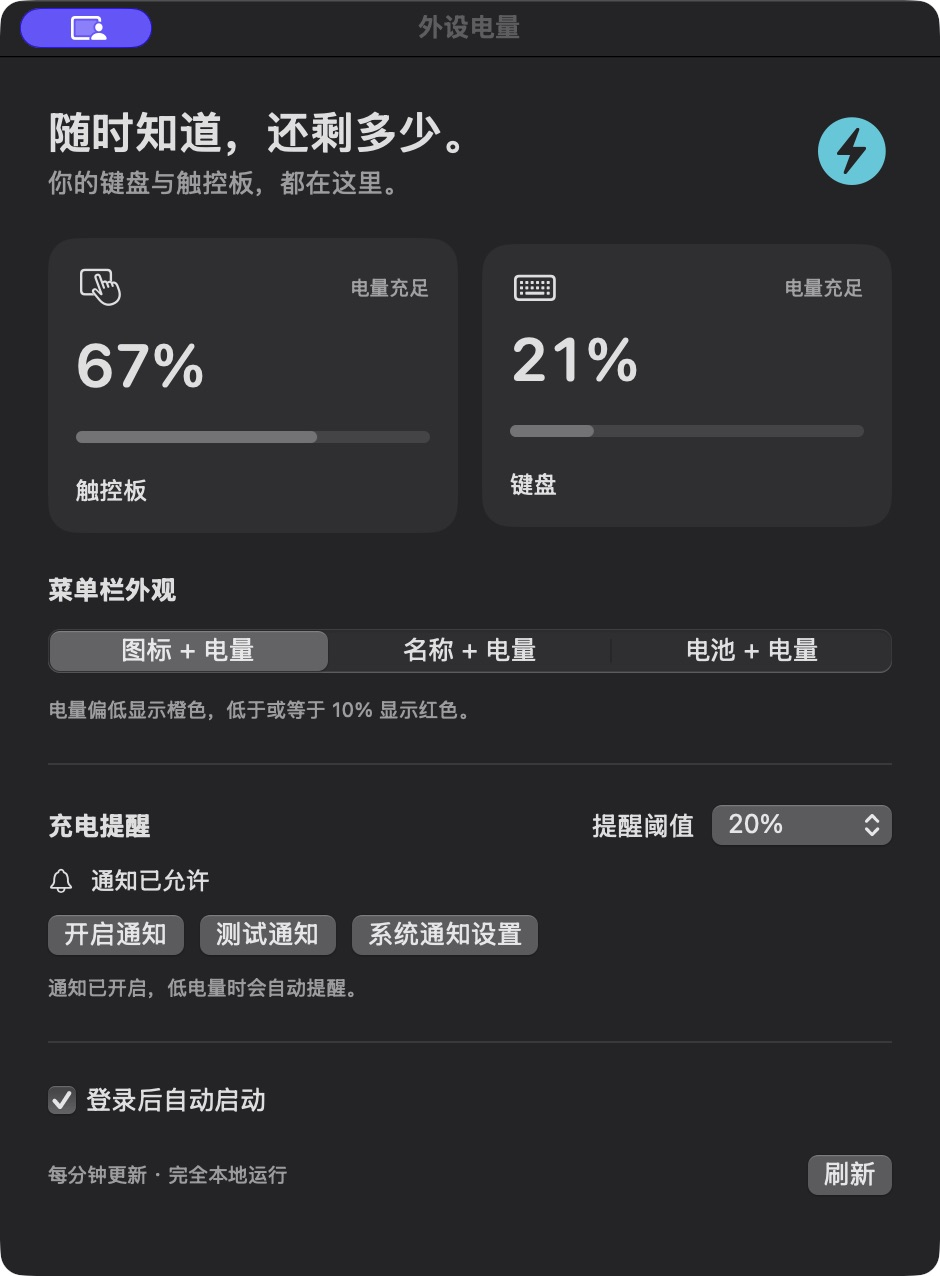
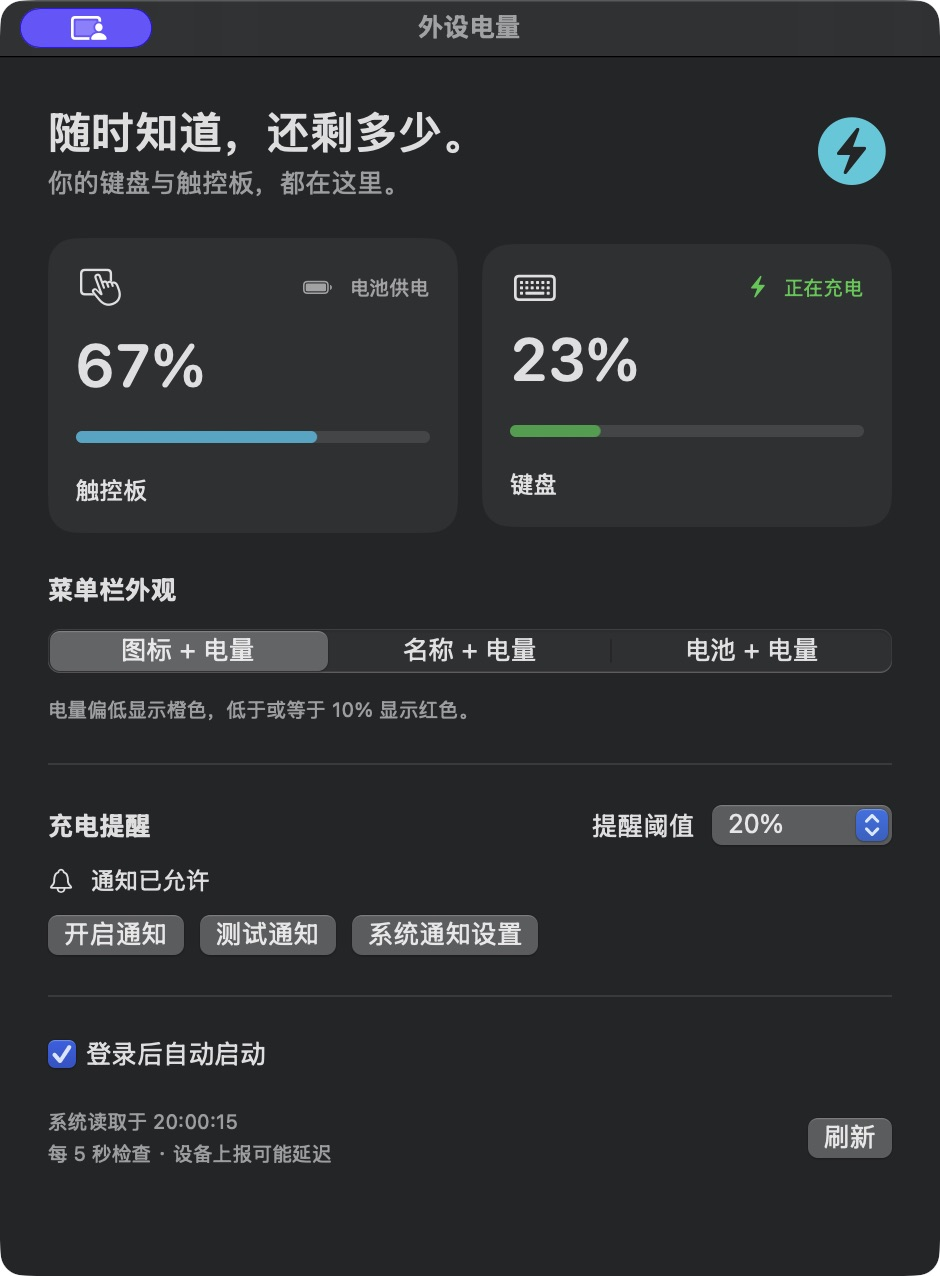
v1.2：增加真实充电状态和 5 秒刷新，通过实机插拔验证

diff --git a/peripheral-battery/Sources/PeripheralBattery.swift b/peripheral-battery/Sources/PeripheralBattery.swift
@@ -1,12 +1,22 @@
 import Cocoa
 import SwiftUI
 import IOKit
+import IOKit.ps
+import Darwin
 import UserNotifications
 import ServiceManagement
 
 struct Device {
     let name: String
     let percent: Int
+    var charging: Bool? = nil
+    var externalPower = false
+    var source = "IORegistry"
+    var powerLabel: String {
+        if charging == true { return "正在充电" }
+        if charging == false { return externalPower ? (percent == 100 ? "已充满" : "已接电，未充电") : "电池供电" }
+        return "充电状态未知"
+    }
     var symbol: String {
         switch label { case "键盘": return "keyboard"; case "触控板": return "rectangle.and.hand.point.up.left"; case "鼠标": return "computermouse"; default: return "battery.100percent" }
     }
@@ -18,7 +28,7 @@ struct Device {
         return name
     }
 }
-func readDevices() -> [Device] {
+func readRegistryDevices() -> [Device] {
     var iterator: io_iterator_t = 0
     guard IOServiceGetMatchingServices(kIOMainPortDefault, IOServiceMatching("AppleDeviceManagementHIDEventService"), &iterator) == KERN_SUCCESS else { return [] }
     defer { IOObjectRelease(iterator) }
@@ -33,6 +43,67 @@ func readDevices() -> [Device] {
         result.append(Device(name: name, percent: percent))
     }
     return result.sorted { $0.label < $1.label }
+}
+
+// Apple's accessory-source API is publicly unsupported. Resolve it dynamically;
+// if unavailable, retain the battery reading and explicitly mark charging unknown.
+enum AccessoryPower {
+    typealias CopySources = @convention(c) (Int32) -> Unmanaged<CFTypeRef>?
+    static let handle = dlopen("/System/Library/Frameworks/IOKit.framework/IOKit", RTLD_LAZY)
+    static let copySources: CopySources? = {
+        guard let handle = handle, let symbol = dlsym(handle, "IOPSCopyPowerSourcesByType") else { return nil }
+        return unsafeBitCast(symbol, to: CopySources.self)
+    }()
+}
+func decodeAccessory(_ data: [String: Any]) -> Device? {
+    guard ["Keyboard", "Trackpad", "Mouse"].contains(data["Accessory Category"] as? String ?? ""),
+          (data["Is Present"] as? NSNumber)?.boolValue == true,
+          let name = data["Name"] as? String,
+          let current = data["Current Capacity"] as? Int,
+          let maximum = data["Max Capacity"] as? Int,
+          maximum > 0, current >= 0, current <= maximum else { return nil }
+    let percent = Int((Double(current) / Double(maximum) * 100).rounded())
+    let charging = (data["Is Charging"] as? NSNumber)?.boolValue
+    return Device(name: name, percent: percent, charging: charging,
+                  externalPower: data["Power Source State"] as? String == "AC Power",
+                  source: "macOS 外设电源服务")
+}
+func readDevices() -> [Device] {
+    if let copy = AccessoryPower.copySources,
+       let snapshot = copy(4)?.takeRetainedValue(),
+       let sources = IOPSCopyPowerSourcesList(snapshot)?.takeRetainedValue() as? [CFTypeRef] {
+        let devices = sources.compactMap { source -> Device? in
+            guard let data = IOPSGetPowerSourceDescription(snapshot, source)?.takeUnretainedValue() as? [String: Any] else { return nil }
+            return decodeAccessory(data)
+        }
+        // A valid source snapshot is authoritative, including an empty device list.
+        return devices.sorted { $0.label < $1.label }
+    }
+    return readRegistryDevices()
+}
+func runSelfTests() {
+    var data: [String: Any] = ["Accessory Category": "Keyboard", "Is Present": true, "Name": "Test Keyboard", "Current Capacity": 23, "Max Capacity": 100, "Is Charging": false, "Power Source State": "Battery Power"]
+    precondition(decodeAccessory(data)?.powerLabel == "电池供电")
+    data["Current Capacity"] = 24
+    precondition(decodeAccessory(data)?.charging == false, "Increasing capacity must not imply charging")
+    data["Is Charging"] = true
+    precondition(decodeAccessory(data)?.powerLabel == "正在充电")
+    data["Is Charging"] = false
+    data["Power Source State"] = "AC Power"
+    precondition(decodeAccessory(data)?.powerLabel == "已接电，未充电")
+    data["Current Capacity"] = 100
+    precondition(decodeAccessory(data)?.powerLabel == "已充满")
+    data.removeValue(forKey: "Is Charging")
+    precondition(decodeAccessory(data)?.charging == nil)
+    data["Max Capacity"] = 0
+    precondition(decodeAccessory(data) == nil)
+    data["Max Capacity"] = 100
+    data["Is Present"] = false
+    precondition(decodeAccessory(data) == nil)
+    data["Is Present"] = true
+    data["Accessory Category"] = "Headset"
+    precondition(decodeAccessory(data) == nil)
+    print("PASS: power-state decoding, rising percentage, missing state, invalid capacity, absent device, category filtering")
 }
 
 class AppDelegate: NSObject, NSApplicationDelegate, UNUserNotificationCenterDelegate {
@@ -63,6 +134,7 @@ class AppDelegate: NSObject, NSApplicationDelegate, UNUserNotificationCenterDele
     }
     func syncModel() {
         model.devices = devices
+        model.lastRead = lastUpdate
         model.notificationState = notificationState
         model.notificationDetail = notificationDetail
         model.threshold = threshold
@@ -71,6 +143,7 @@ class AppDelegate: NSObject, NSApplicationDelegate, UNUserNotificationCenterDele
         model.loginPending = SMAppService.mainApp.status == .requiresApproval
     }
     @objc func showSettings() {
+        refresh()
         updateNotificationState()
         if settingsWindow == nil {
             let window = NSWindow(contentRect: NSRect(x: 0, y: 0, width: 470, height: 610), styleMask: [.titled, .closable, .miniaturizable], backing: .buffered, defer: false)
@@ -89,7 +162,7 @@ class AppDelegate: NSObject, NSApplicationDelegate, UNUserNotificationCenterDele
         let font = NSFont.monospacedDigitSystemFont(ofSize: 12, weight: .medium)
         for (index, device) in devices.enumerated() {
             if index > 0 { text.append(NSAttributedString(string: "   ", attributes: [.font: font])) }
-            let color: NSColor = device.percent <= 10 ? .systemRed : device.percent <= threshold ? .systemOrange : .labelColor
+            let color: NSColor = device.charging == true ? .systemGreen : device.percent <= 10 ? .systemRed : device.percent <= threshold ? .systemOrange : .labelColor
             if style == 1 {
                 text.append(NSAttributedString(string: displayName(device) + " ", attributes: [.font: font, .foregroundColor: color]))
             } else {
@@ -102,11 +175,11 @@ class AppDelegate: NSObject, NSApplicationDelegate, UNUserNotificationCenterDele
                     text.append(NSAttributedString(string: " "))
                 }
             }
-            text.append(NSAttributedString(string: "\(device.percent)%", attributes: [.font: font, .foregroundColor: color]))
+            text.append(NSAttributedString(string: "\(device.charging == true ? "⚡ " : "")\(device.percent)%", attributes: [.font: font, .foregroundColor: color]))
         }
         if devices.isEmpty { text.append(NSAttributedString(string: "外设未连接")) }
         item.button?.attributedTitle = text
-        item.button?.toolTip = devices.map { "\(displayName($0))：\($0.percent)%" }.joined(separator: "\n") + "\n每分钟读取系统上报的电量"
+        item.button?.toolTip = devices.map { "\(displayName($0))：\($0.percent)% · \($0.powerLabel)" }.joined(separator: "\n") + "\n每 5 秒读取系统数据，设备上报可能延迟"
     }
     var timer: Timer?
     var devices: [Device] = []
@@ -118,7 +191,10 @@ class AppDelegate: NSObject, NSApplicationDelegate, UNUserNotificationCenterDele
         item = NSStatusBar.system.statusItem(withLength: NSStatusItem.variableLength)
         UNUserNotificationCenter.current().delegate = self
         refresh()
-        timer = Timer.scheduledTimer(withTimeInterval: 60, repeats: true) { [weak self] _ in self?.refresh() }
+        let pollingTimer = Timer(timeInterval: 5, repeats: true) { [weak self] _ in self?.refresh() }
+        pollingTimer.tolerance = 0.5
+        RunLoop.main.add(pollingTimer, forMode: .common)
+        timer = pollingTimer
         NSWorkspace.shared.notificationCenter.addObserver(self, selector: #selector(refresh), name: NSWorkspace.didWakeNotification, object: nil)
         updateNotificationState()
         showSettings()
@@ -133,7 +209,7 @@ class AppDelegate: NSObject, NSApplicationDelegate, UNUserNotificationCenterDele
         for device in devices {
             let key = "lastAlert.\(device.name)"
             if device.percent > threshold + 5 { defaults.removeObject(forKey: key); continue }
-            guard device.percent <= threshold else { continue }
+            guard device.percent <= threshold, device.charging != true, !device.externalPower else { continue }
             let last = defaults.object(forKey: key) as? Date ?? .distantPast
             guard Date().timeIntervalSince(last) >= 6 * 3600 else { continue }
             UNUserNotificationCenter.current().getNotificationSettings { settings in
@@ -164,9 +240,9 @@ class AppDelegate: NSObject, NSApplicationDelegate, UNUserNotificationCenterDele
         _ = add(menu, "电量与个性化设置…", #selector(showSettings))
         menu.addItem(.separator())
         if devices.isEmpty { _ = add(menu, "未检测到已连接的苹果外设") }
-        for d in devices { _ = add(menu, "\(d.name)：\(d.percent)%") }
+        for d in devices { _ = add(menu, "\(d.name)：\(d.percent)% · \(d.powerLabel)") }
         let formatter = DateFormatter(); formatter.dateFormat = "HH:mm:ss"
-        _ = add(menu, "更新于 \(formatter.string(from: lastUpdate)) · 每分钟检查")
+        _ = add(menu, "读取于 \(formatter.string(from: lastUpdate)) · 每 5 秒检查")
         menu.addItem(.separator())
         _ = add(menu, "立即刷新", #selector(refresh))
         let thresholds = NSMenu()
@@ -239,6 +315,7 @@ class AppDelegate: NSObject, NSApplicationDelegate, UNUserNotificationCenterDele
 }
 class BatteryModel: ObservableObject {
     @Published var devices: [Device] = []
+    @Published var lastRead = Date()
     @Published var notificationState = "正在检查…"
     @Published var notificationDetail = ""
     @Published var threshold = 30
@@ -266,10 +343,11 @@ struct BatterySettings: View {
                             HStack {
                                 Image(systemName: device.symbol).font(.title2)
                                 Spacer()
-                                Text(device.percent <= model.threshold ? "该充电了" : "电量充足").font(.caption).foregroundStyle(.secondary)
+                                Label(device.powerLabel, systemImage: device.charging == true ? "bolt.fill" : "battery.100percent")
+                                    .font(.caption).foregroundStyle(device.charging == true ? .green : .secondary)
                             }
                             Text("\(device.percent)%").font(.system(size: 30, weight: .semibold, design: .rounded)).monospacedDigit()
-                            ProgressView(value: Double(device.percent), total: 100).tint(device.percent <= model.threshold ? .orange : .teal)
+                            ProgressView(value: Double(device.percent), total: 100).tint(device.charging == true ? .green : device.percent <= model.threshold ? .orange : .teal)
                             TextField(device.label, text: Binding(get: { delegate.displayName(device) }, set: { delegate.setName(device, $0) }))
                                 .textFieldStyle(.plain).font(.callout)
                                 .help("点击修改名称；中文样式会使用这个名字")
@@ -309,7 +387,10 @@ struct BatterySettings: View {
                 Toggle("登录后自动启动", isOn: Binding(get: { model.loginEnabled }, set: { _ in delegate.toggleLogin() }))
                 if model.loginPending { Text("请在系统设置 → 通用 → 登录项中允许启动。").font(.caption).foregroundStyle(.orange) }
                 HStack {
-                    Text("每分钟更新 · 完全本地运行").font(.caption).foregroundStyle(.secondary)
+                    VStack(alignment: .leading, spacing: 3) {
+                        Text("系统读取于 " + model.lastRead.formatted(date: .omitted, time: .standard))
+                        Text("每 5 秒检查 · 设备上报可能延迟")
+                    }.font(.caption).foregroundStyle(.secondary)
                     Spacer()
                     Button("刷新") { delegate.refresh(); delegate.updateNotificationState() }
                 }
@@ -317,8 +398,10 @@ struct BatterySettings: View {
         }.frame(width: 470, height: 610)
     }
 }
-if CommandLine.arguments.contains("--check") {
-    for d in readDevices() { print("\(d.label) | \(d.name) | \(d.percent)%") }
+if CommandLine.arguments.contains("--self-test") {
+    runSelfTests()
+} else if CommandLine.arguments.contains("--check") {
+    for d in readDevices() { print("\(d.label) | \(d.percent)% | \(d.powerLabel) | \(d.source)") }
 } else {
     let app = NSApplication.shared
     let delegate = AppDelegate()

diff --git a/peripheral-battery/README.md b/peripheral-battery/README.md
@@ -7,7 +7,7 @@
 ## 界面预览
 
 <p align="center">
-  <img src="docs/images/app-window.png" alt="外设电量 v1.1 实际运行截图：设备电量卡片、外观切换与通知设置" width="470">
+  <img src="docs/images/app-window.png" alt="外设电量 v1.2 实际运行截图：设备电量卡片、外观切换与通知设置" width="470">
 </p>
 
 实际运行截图，拍摄于 2026 年 10 月 19 日。截图中的电量与提醒阈值为拍摄时的状态，可在设置中调整。
@@ -16,7 +16,7 @@
 
 - 菜单栏显示设备图标与电量百分比，也可切换名称、电池图标样式。
 - 设置窗口展示设备电量卡片，支持自定义名称。
-- 每 60 秒读取系统电量，Mac 唤醒后刷新，也可手动刷新。
+- 每 5 秒读取系统电量，Mac 唤醒后刷新，也可手动刷新。
 - 默认电量 ≤30% 时提醒，可选择 10%、20%、30%。
 - 低电量数字显示橙色，≤10% 显示红色。
 - 显示通知授权状态，提供开启通知、测试通知与系统设置入口。
@@ -62,9 +62,17 @@ docs/PROJECT_STORY.md            从问题到实现的项目记录
 docs/使用说明.txt                中文使用说明
 ```
 
+## 充电状态与刷新
+
+系统报告正在充电时，菜单栏显示闪电，设备卡片显示绿色充电状态。电量上涨本身不会被当成充电证据；已接电但未充电、已充满与状态未知分别显示。界面显示最近读取系统的时间，这不是外设最后一次采样的时间。
+
+当前版本动态加载 Apple 的 `IOPSCopyPowerSourcesByType` 外设接口。该接口属于公开不受支持的系统接口，可能随系统升级变化；无法访问时降级为电量读取，不猜测充电状态。实现依据：[Apple IOKitUser 源码](https://github.com/apple-oss-distributions/IOKitUser/blob/main/ps.subproj/IOPowerSourcesPrivate.h)。
+
+可运行 `build/PeripheralBattery.app/Contents/MacOS/PeripheralBattery --self-test` 检查充电状态解析规则；真实插拔仍需要实机验证。
+
 ## 实现与限制
 
-使用 AppKit 创建菜单栏项目，SwiftUI 构建设置界面，IOKit 读取 `AppleDeviceManagementHIDEventService` 中的设备电量，UserNotifications 发送提醒，ServiceManagement 管理登录启动。
+使用 AppKit 创建菜单栏项目，SwiftUI 构建设置界面，IOKit 外设电源服务读取设备电量和明确的充电状态；接口不可用时回退到 `AppleDeviceManagementHIDEventService` 电量记录并显示充电状态未知，UserNotifications 发送提醒，ServiceManagement 管理登录启动。
 
 - 电量更新取决于外设向 macOS 上报的频率，不是秒级测量。
 - 主要面向苹果键盘、触控板与鼠标，不承诺支持所有蓝牙设备。
@@ -76,7 +84,9 @@ docs/使用说明.txt                中文使用说明
 ## 验证记录
 
 - Swift 编译、本地代码签名验证通过。
-- 在实际 Mac 上成功读取苹果无线键盘与触控板电量。
+- 在实际 Mac 上成功读取苹果无线键盘与触控板电量，并与系统设置对照一致。
+- 已实测完整插拔：未接线 23% / 电池供电 → 接线 23% / 正在充电 → 拔线 24% / 电池供电；窗口状态同步变化。
+- 状态解析自检通过；数字上涨不会被误判为充电。
 - 使用者已确认菜单栏可见，并认可当前设计。
 - 通知横幅与登录启动的完整行为仍待实际确认，不把代码存在等同于验证完成。
 

diff --git a/peripheral-battery/CHANGELOG.md b/peripheral-battery/CHANGELOG.md
@@ -1,5 +1,13 @@
 # 版本记录
 
+## 1.2 · 2026-10-19
+
+- 读取系统明确提供的充电状态，增加闪电和充电状态文字。
+- 将系统数据读取间隔调整为 5 秒，在界面显示读取时间。
+- 充电或外部供电时抑制低电量提醒。
+- 接口不可用时明确显示状态未知，不根据电量上涨或 USB 连接猜测充电。
+- 增加状态解析自检，包括未充电时电量上涨的情况。
+
 ## 1.1 · 2026-10-19
 
 - 菜单栏默认采用简洁设备图标与百分比。

diff --git a/README.md b/README.md
@@ -8,7 +8,7 @@ mac使用日常中的小痛点
 
 | 工具 | 解决的问题 | 状态 |
 | --- | --- | --- |
-| [外设电量 · Peripheral Battery](peripheral-battery/) | 一眼查看苹果无线键盘、触控板电量，提前提醒充电 | v1.1，自用版本 |
+| [外设电量 · Peripheral Battery](peripheral-battery/) | 一眼查看苹果无线键盘、触控板电量，提前提醒充电 | v1.2，自用版本 |
 
 ## 界面预览
 
